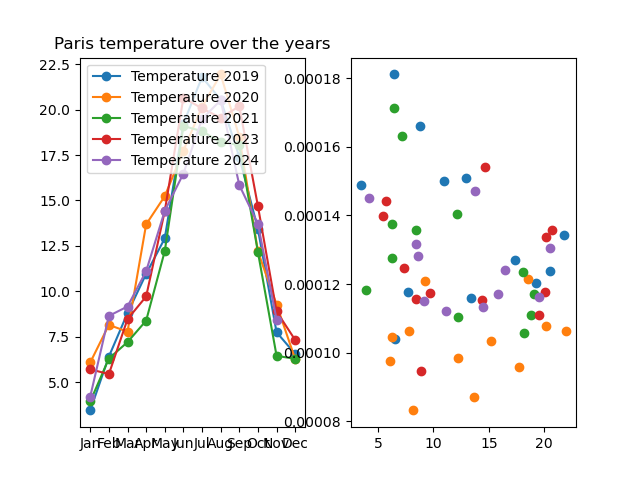
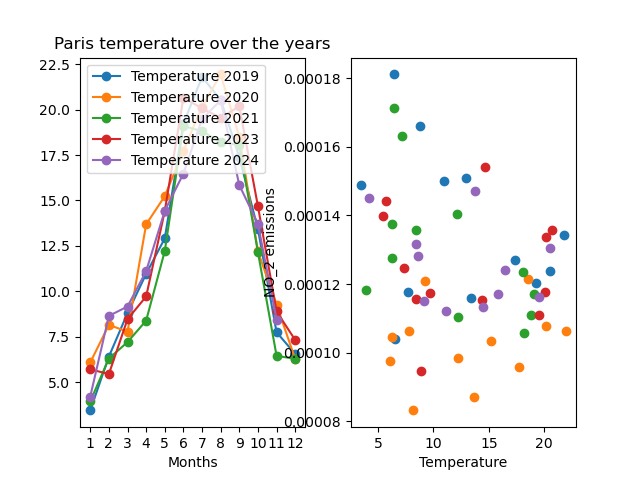
push

Changed region(s): [[0.125, 0.9062, 0.5, 0.9688], [0.4062, 0.375, 0.4375, 0.625], [0.6562, 0.9375, 0.7812, 1.0]]

diff --git a/airport.py b/airport.py
@@ -991,8 +991,8 @@ def airport_emission(location):
     # Pandas DataFrame maken voor overzicht
     df_total_emissions = pd.DataFrame(total_emissions)
 
-    months_axis = ['Jan', 'Feb', 'Mar', 'Apr', 'May', 'Jun', 'Jul', 'Aug', 'Sep', 'Oct', 'Nov', 'Dec']
-    months_axis2 = ['Jan', 'Feb', 'Mar', 'Apr', 'May', 'Jun', 'Jul', 'Aug', 'Sep', 'Oct', 'Nov']
+    months_axis = ['1', '2', '3', '4', '5', '6', '7', '8', '9', '10', '11', '12']
+    months_axis2 = ['1', '2', '3', '4', '5', '6', '7', '8', '9', '10', '11']
 
     # maanden_2019 = temp_scaled[0:12]
     # maanden_2020 = temp_scaled[12:24]
@@ -1014,6 +1014,7 @@ def airport_emission(location):
     plt.plot(months_axis, maanden_2021['temperature'], 'o-',label='Temperature 2021')
     plt.plot(months_axis, maanden_2023['temperature'], 'o-',label='Temperature 2023')
     plt.plot(months_axis2, maanden_2024['temperature'], 'o-',label='Temperature 2024')
+    plt.xlabel('Months')
     plt.legend(loc = 'upper left')
     plt.title(f'{location} temperature over the years')
     ax = plt.subplot(1, 2, 2)
@@ -1022,6 +1023,9 @@ def airport_emission(location):
     plt.scatter(maanden_2021['temperature'], monthly_avg_2021['Density'], label='2021')
     plt.scatter(maanden_2023['temperature'], monthly_avg_2023['Density'], label='2023')
     plt.scatter(maanden_2024['temperature'], monthly_avg_2024['Density'].values[0:11], label='2024')
+    plt.xlabel('Temperature')
+    plt.ylabel('NO₂ emissions')
+    
 
     plt.savefig(f'{location}_temperature.png')
     plt.show()
